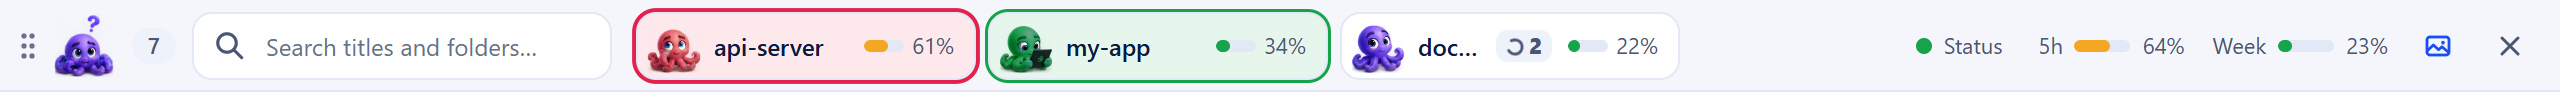
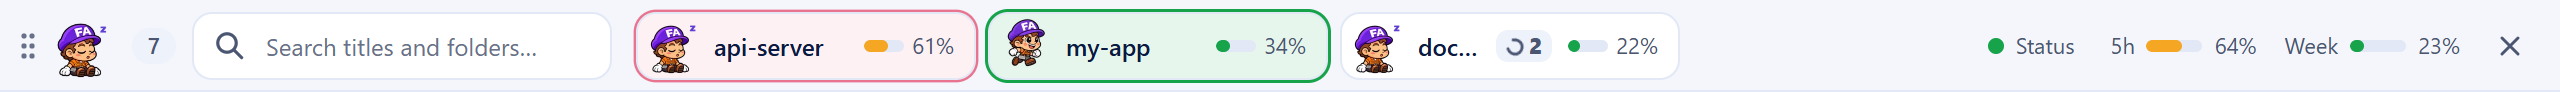
Field Agents: the big-headed chibi hero at 56 px, running or asleep
The card mascot is now the big-headed chibi FA hero at 56 px (cards 74 px
high): it runs while its session works and sleeps in every other state
(eyes closed, a slow breath, a "z" rising); closed cards keep it greyed.
The header follows the same rule; the 28 px top tab shows the whole figure.

Strips ship in 56 and 112 px frames, cut by tools/hero-export.py with one
Lanczos pass from new 512 px sources (one Codex sheet per strip through
sprite-gen; how in trials.md). The page picks the smaller strip wherever it
covers the element's device pixels. New unit tests for the mascot; README
pictures retaken; two unused old screenshots removed.

diff --git a/agent-panel.html b/agent-panel.html
@@ -14,11 +14,12 @@
      but its dot, tint and hero keep its own state: only the badge's arrow turns for that work (2026-11-20,
      the maintainer: a green arc on a session that is itself idle "is misleading"). The folder path shows only
      in the title's tooltip.
-     Mascot (2026-11-21, replacing the 2026-11-09 octopus): the FA hero (cut by tools/hero-export.py into
-     mascot/ and inlined by agent-panel.pyw as window.MASCOT). It is the header's logo and sits on every
-     card: running while the session works, sitting at rest (breathing, a blink now and then) in every
-     other state, greyed on a closed card; the state itself stays with the dot, tint and ring. The header
-     runs when the most pressing state in the list is working, otherwise sits. Without the strips the old logo stays. The bars' 50-80 % band is gold to match the status line,
+     Mascot (2026-11-22, the big-headed chibi FA hero, replacing the 2026-11-21 full-body hero): cut by
+     tools/hero-export.py into mascot/ (56 and 112 px frames) and inlined by agent-panel.pyw as
+     window.MASCOT. It is the header's logo and stands 56 px on every card: running while the session
+     works, asleep (a slow breath, a "z" rising) in every other state, greyed on a closed card; the state
+     itself stays with the dot, tint and ring. The header runs when the most pressing state in the list
+     is working, otherwise sleeps. Without the strips the old logo stays. The bars' 50-80 % band is gold to match the status line,
      an exception to Spark's "gold for rewards only". Written-down exceptions to design.md "One row,
      one shape": the header's logo (36, the hero), count pill (18, pill radius) and hide and screenshot-strip buttons (26) differ, the
      pill qualifying the title and the button standing apart at the edge. Headings and boxes share the
@@ -68,10 +69,10 @@ body.dragging, body.dragging * { cursor: grabbing !important; }
 .mascot { flex: none; background-repeat: no-repeat; background-position: 0 0; }
 .mascot[hidden] { display: none; }
 .logo.mascot { width: 36px; height: 36px; }
-.av { width: 38px; height: 38px; align-self: center; }
-/* a closed card's hero, sitting, in light grey */
+.av { width: 56px; height: 56px; align-self: center; }
+/* a closed card's hero, asleep, in light grey */
 .av.gone { filter: grayscale(1); opacity: .5; }
-.body { flex: 1; min-width: 0; display: flex; flex-direction: column; gap: 2px; }
+.body { flex: 1; min-width: 0; display: flex; flex-direction: column; justify-content: center; gap: 2px; }
 h1 { font-size: 15px; font-weight: 600; }
 #count {
   min-width: 22px; height: 18px; padding: 0 7px; border-radius: var(--r-pill); background: var(--surface2);
@@ -120,7 +121,7 @@ h1 { font-size: 15px; font-weight: 600; }
 #list::-webkit-scrollbar-thumb:hover { background: var(--thumb-hover); }
 
 .card {
-  height: 56px; margin-bottom: 8px; padding: 9px 14px 9px 8px; display: flex; gap: 8px;
+  height: 74px; margin-bottom: 8px; padding: 8px 14px 8px 6px; display: flex; gap: 8px;
   background: var(--panel); border: 1px solid var(--line); border-radius: var(--r-card); box-shadow: var(--card-shadow);
   transition: transform .16s ease-out;
 }
@@ -330,7 +331,7 @@ body.top #list .body { flex-direction: row; align-items: center; gap: 8px; }
 body.top #list .t { flex: 1; min-width: 0; }
 body.top #list .name { font-size: 12px; }
 body.top #list .age, body.top #list .arrow, body.top #list .cx, body.top #list .flags { display: none; }
-/* the tab's tint and the hero (running, sitting, grey when closed) show the state; the dot stands in only without a hero */
+/* the tab's tint and the hero (running, asleep, grey when closed) show the state; the dot stands in only without a hero */
 body.top #list .av:not([hidden]) + .body .dot { display: none; }
 body.top #list .meta { flex: none; padding-left: 0; gap: 4px; }
 body.top #list .meta .bar { width: 20px; }
@@ -430,24 +431,32 @@ const onTop = () => document.body.classList.contains("top");
 // ----- the mascot (mindmap mascot.md: frame 0 the rest, frame 0 only under reduced motion) -----
 const sprites = new Map();   // element -> {key, n, seq, i, at}
 // strip, its frame count (fixed by tools/hero-export.py), and the play order as [frame, ms] steps:
-// the run was drawn at 11 fps; the sitting hero breathes slowly (rest, half, full, half breath) and
-// blinks once every second breath
+// the run was drawn at 11 fps; asleep, the hero breathes slowly (rest, half, full, half breath, the "z"
+// rising one step a frame)
 const RUN = ["hero-run", 8, [0, 1, 2, 3, 4, 5, 6, 7].map(f => [f, 90])];
-const SIT = ["hero-sit", 4, [[0, 1400], [1, 250], [2, 1100], [1, 250], [0, 1400], [1, 250], [2, 1100], [1, 250],
-                             [0, 700], [3, 160], [0, 500]]];
-const heroOf = st => st === "busy" ? RUN : SIT;
+const SLEEP = ["hero-sleep", 4, [[0, 900], [1, 700], [2, 900], [3, 700]]];
+const heroOf = st => st === "busy" ? RUN : SLEEP;
+// each strip comes in 56 px frames and in 112 px ("@2x"): the smaller one when it still covers the
+// element's device pixels (a 56 px card at 1x, the 36 px header and 28 px tab at 1x), else the larger
+const stripOf = (el, key) => {
+  const need = (el.clientWidth || 56) * (window.devicePixelRatio || 1);
+  return need <= 56 && MASCOT[key] ? MASCOT[key] : MASCOT[key + "@2x"] || MASCOT[key];
+};
 const frameAt = (el, n, f) => { el.style.backgroundPosition = f * 100 / (n - 1) + "% 0"; };
 function sprite(el, [key, n, seq]) {
-  const src = MASCOT[key];
-  el.hidden = !src;
-  if (!src) return false;
-  const s = sprites.get(el);
-  if (s && s.key === key) return true;
+  el.hidden = !MASCOT[key] && !MASCOT[key + "@2x"];
+  if (el.hidden) return false;
+  const src = stripOf(el, key), s = sprites.get(el);
+  if (s && s.key === key) {
+    // the dock or the screen's scale changed: the same frame from the other size
+    if (s.src !== src) { s.src = src; el.style.backgroundImage = `url(${src})`; }
+    return true;
+  }
   el.style.backgroundImage = `url(${src})`;
   el.style.backgroundSize = n * 100 + "% 100%";
   frameAt(el, n, 0);
   // each card starts at its own moment, so the heroes do not move in step
-  sprites.set(el, {key, n, seq, i: 0, at: performance.now() + Math.random() * 1200});
+  sprites.set(el, {key, src, n, seq, i: 0, at: performance.now() + Math.random() * 1200});
   return true;
 }
 function tick(now) {
@@ -485,7 +494,7 @@ function syncRegion() {
   api().region(rs);
 }
 requestAnimationFrame(tick);
-// the header's hero runs when the most pressing state in the list is working, otherwise sits (full colour)
+// the header's hero runs when the most pressing state in the list is working, otherwise sleeps (full colour)
 function headerMascot() {
   const st = state.sessions.map(stateOf);
   const top = st.includes("ask") ? "ask" : st.includes("busy") ? "busy" : "idle";

diff --git a/tools/hero-export.py b/tools/hero-export.py
@@ -1,17 +1,21 @@
-"""Builds the Agent Panel's hero strips from the 512 px source frames.
+"""Builds the Field Agents mascot strips (the big-headed chibi FA hero) from the high-resolution source frames.
 
 Usage: python -I tools/hero-export.py
 
-Source: tools/mascot-source/hero/, transparent 512 px frames on one shared cell (feet on row 463):
-run-0..7.png, the running cycle (drawn at 11 fps), and sit-0..3.png, the sitting idle (rest, half
-breath, full breath, blink), both at the same scale, so the head is the same size in either.
-Every frame is cut with one square box, the union of all twelve drawings, padded and standing on
-their shared baseline: the hero is taller than wide, so the box's height decides the scale and the
-figure is never squashed; switching between running and sitting keeps the size and place.
-Frames are scaled to OUT_PX (shown at 38 px on a card, 28 px in the top strip's tabs, 36 px in the
-header; 96 px keeps them sharp up to 2.5x screens).
-Output: mascot/hero-run.webp (8 frames) and mascot/hero-sit.webp (4 frames), one horizontal strip each.
-The panel greys the sitting hero of a closed card itself (CSS), so there is no grey strip.
+Source: tools/mascot-source/hero/, transparent 512 px frames as cut by sprite-gen from one Codex sheet per
+strip (how they were made: trials.md, 2026-11-22): run-0..7.png, the running cycle facing right (both
+boots off the ground in frames 3 and 7), feet on row 463; sleep-0..3.png, asleep sitting (rest, half,
+full and half breath, a "z" rising), feet on row 463, drawn larger than the run.
+The sleeping frames are scaled so the cap covers as much area as in the run (measured on the violet), then every
+frame of both strips is cut with one square box, the union of all twelve drawings plus PAD, standing on
+the shared baseline and centred on the figure, so switching between running and sleeping keeps the
+head's size and the feet's place. Each frame goes straight from its source to the output size with one
+Lanczos pass (measured sharper than going through an intermediate size).
+Output, one horizontal strip per animation and size, frames side by side:
+  mascot/hero-run.webp, hero-sleep.webp        56 px frames (the card, 1x)
+  mascot/hero-run@2x.webp, hero-sleep@2x.webp  112 px frames (the card at 2x; the header, 36 px, and
+                                               the top strip's 28 px tabs scale these down)
+The panel greys the sleeping hero of a closed card itself (CSS), so there is no grey strip.
 """
 import os
 import numpy as np
@@ -20,27 +24,59 @@ from PIL import Image
 HERE = os.path.dirname(os.path.abspath(__file__))
 SRC = os.path.join(HERE, "mascot-source", "hero")
 OUT = os.path.join(os.path.dirname(HERE), "mascot")
-OUT_PX = 96
-PAD = 6  # source px of air round the union box
-STRIPS = {"hero-run": ["run-%d.png" % i for i in range(8)], "hero-sit": ["sit-%d.png" % i for i in range(4)]}
+SIZES = {"": 56, "@2x": 112}
+PAD = 6         # source px of air round the union box
+GROUND = 463    # feet row in every source frame
+Z_RGB = (92, 59, 205)  # the flat violet of the sleeping "z"
+STRIPS = {"hero-run": ["run-%d.png" % i for i in range(8)], "hero-sleep": ["sleep-%d.png" % i for i in range(4)]}
 
-frames = {name: [Image.open(os.path.join(SRC, f)).convert("RGBA") for f in files] for name, files in STRIPS.items()}
-union = np.zeros((512, 512), bool)
-for strip in frames.values():
-    for f in strip:
-        union |= np.array(f)[:, :, 3] > 8
-ys, xs = np.where(union.any(1))[0], np.where(union.any(0))[0]
-bottom = ys[-1] + 1 + PAD
-side = max(bottom - (ys[0] - PAD), xs[-1] - xs[0] + 1 + 2 * PAD)
-left = (xs[0] + xs[-1] + 1) // 2 - side // 2
-box = (left, bottom - side, left + side, bottom)
-print("box %s, %d px square" % (box, side))
 
+def load(name):
+    return np.array(Image.open(os.path.join(SRC, name)).convert("RGBA"))
+
+
+def cap_size(a):
+    """The cap's size as the square root of its violet area: the run shows the cap from the side and
+    the sleeping hero more from the front, so widths differ while the head should look as big. The "z"
+    beside a sleeping cap is one flat colour (Z_RGB) and is left out."""
+    r, g, b, al = (a[..., i].astype(int) for i in range(4))
+    cap = (al > 128) & (b > r + 40) & (b > g + 90)
+    cap &= ~((r == Z_RGB[0]) & (g == Z_RGB[1]) & (b == Z_RGB[2]))
+    return float(np.sqrt(cap.sum()))
+
+
+frames = {k: [load(f) for f in v] for k, v in STRIPS.items()}
+run, sleep = frames["hero-run"], frames["hero-sleep"]
+# the sleeping figure in run pixels: scale k, feet on the same row, centred where the run is centred
+k = float(np.median([cap_size(a) for a in run])) / cap_size(sleep[0])
+ink = lambda a: a[..., 3] > 8
+ru = np.logical_or.reduce([ink(a) for a in run])
+su = np.logical_or.reduce([ink(a) for a in sleep])
+rys, rxs = np.where(ru.any(1))[0], np.where(ru.any(0))[0]
+sys_, sxs = np.where(su.any(1))[0], np.where(su.any(0))[0]
+r_cx = (rxs[0] + rxs[-1] + 1) / 2
+s_cx = (sxs[0] + sxs[-1] + 1) / 2
+place = {"hero-run": (1.0, 0.0, 0.0), "hero-sleep": (k, r_cx - s_cx * k, GROUND - GROUND * k)}  # scale, dx, dy
+top = min(rys[0], sys_[0] * k + place["hero-sleep"][2]) - PAD
+bottom = GROUND + PAD
+left = min(rxs[0], sxs[0] * k + place["hero-sleep"][1]) - PAD
+right = max(rxs[-1] + 1, (sxs[-1] + 1) * k + place["hero-sleep"][1]) + PAD
+side = max(bottom - top, right - left)
+cx = (left + right) / 2
+box = (cx - side / 2, bottom - side, cx + side / 2, bottom)
+print("scale of the sleeping frames %.4f; box %s, %.1f px square" % (k, tuple(round(v, 1) for v in box), side))
+
+M = 600  # transparent margin, so a box reaching past the source frame still resamples cleanly
 os.makedirs(OUT, exist_ok=True)
 for name, strip in frames.items():
-    out = Image.new("RGBA", (OUT_PX * len(strip), OUT_PX))
-    for i, f in enumerate(strip):
-        out.paste(f.crop(box).resize((OUT_PX, OUT_PX), Image.LANCZOS), (i * OUT_PX, 0))
-    path = os.path.join(OUT, name + ".webp")
-    out.save(path, "WEBP", quality=88, method=6)
-    print("wrote %s (%d frames, %d bytes)" % (name, len(strip), os.path.getsize(path)))
+    s, dx, dy = place[name]
+    own = tuple((v - d) / s + M for v, d in zip(box, (dx, dy, dx, dy)))  # the box in this frame's pixels
+    for suffix, px in SIZES.items():
+        out = Image.new("RGBA", (px * len(strip), px))
+        for i, a in enumerate(strip):
+            big = Image.new("RGBA", (a.shape[1] + 2 * M, a.shape[0] + 2 * M))
+            big.paste(Image.fromarray(a), (M, M))
+            out.paste(big.resize((px, px), Image.LANCZOS, box=own), (i * px, 0))
+        path = os.path.join(OUT, name + suffix + ".webp")
+        out.save(path, "WEBP", quality=90, method=6)
+        print("wrote %s (%d frames of %d px, %d bytes)" % (os.path.basename(path), len(strip), px, os.path.getsize(path)))

diff --git a/tools/test-agent-panel-state.py b/tools/test-agent-panel-state.py
@@ -183,6 +183,59 @@ class Page(unittest.TestCase):
         self.assertEqual(self.r["order"], ["asking-with-child", "working", "old-delegating", "new-idle", "old-idle", "closed"])
 
 
+class Mascot(unittest.TestCase):
+    """The chibi hero: runs only while its session works, sleeps in every other state; each element gets the
+    smallest shipped strip that still covers its device pixels; the page's frame counts match the strips."""
+
+    @classmethod
+    def setUpClass(cls):
+        with open(os.path.join(ROOT, "agent-panel.html"), encoding="utf-8") as f:
+            html = f.read()
+        code = html[html.index("const RUN = "):html.index("const frameAt = ")]
+        test = r"""
+const MASCOT = {"hero-run": "r1", "hero-run@2x": "r2", "hero-sleep": "s1", "hero-sleep@2x": "s2"};
+const window = {devicePixelRatio: 1};
+const pick = (w, dpr, key) => { window.devicePixelRatio = dpr; return stripOf({clientWidth: w}, key); };
+console.log(JSON.stringify({
+  heroes: ["busy", "ask", "idle", ""].map(st => heroOf(st)[0]),
+  frames: {run: RUN[1], sleep: SLEEP[1]},
+  sleepMs: SLEEP[2].map(s => s[1]), runMs: RUN[2].map(s => s[1]),
+  picks: [pick(56, 1, "hero-run"), pick(56, 2, "hero-run"), pick(36, 1, "hero-sleep"), pick(36, 2, "hero-sleep"),
+          pick(28, 1, "hero-run"), pick(28, 2, "hero-run"), pick(28, 1.5, "hero-sleep"), pick(56, 1.25, "hero-sleep")],
+}));
+"""
+        out = subprocess.run(["node", "-e", code + test], capture_output=True, encoding="utf-8", check=True)
+        cls.r = json.loads(out.stdout)
+
+    def test_runs_only_while_working(self):
+        self.assertEqual(self.r["heroes"], ["hero-run", "hero-sleep", "hero-sleep", "hero-sleep"])
+
+    def test_timing(self):
+        self.assertTrue(all(ms == 90 for ms in self.r["runMs"]))
+        self.assertTrue(all(600 <= ms <= 900 for ms in self.r["sleepMs"]))
+
+    def test_strip_size_for_the_screen(self):
+        # card 56 px at 1x: the 56 px frames; at 2x or 1.25x the 112 px ones; header and tab at 1x the 56 px
+        self.assertEqual(self.r["picks"], ["r1", "r2", "s1", "s2", "r1", "r1", "s1", "s2"])
+
+    def test_shipped_strips_match_the_page(self):
+        from PIL import Image
+        for name, n in (("hero-run", self.r["frames"]["run"]), ("hero-sleep", self.r["frames"]["sleep"])):
+            for suffix, px in (("", 56), ("@2x", 112)):
+                with Image.open(os.path.join(ROOT, "mascot", name + suffix + ".webp")) as im:
+                    self.assertEqual(im.size, (px * n, px), name + suffix)
+
+    def test_panel_inlines_all_four(self):
+        with open(os.path.join(ROOT, "agent-panel.pyw"), encoding="utf-8") as f:
+            src = f.read()
+        ns = pyw_functions("mascot_js")
+        ns.update(MASCOT=os.path.join(ROOT, "mascot"), base64=__import__("base64"))
+        keys = ("hero-run", "hero-run@2x", "hero-sleep", "hero-sleep@2x")
+        self.assertIn("mascot_js((%s))" % ", ".join('"%s"' % k for k in keys), src)
+        js = ns["mascot_js"](keys)
+        self.assertEqual(sorted(json.loads(js[len("window.MASCOT = "):-1])), sorted(keys))
+
+
 class FolderForm(unittest.TestCase):
     """One form of a session's folder for the cards, the alert and the strip: Windows separators, no trailing one."""
 

diff --git a/memory.md b/memory.md
@@ -14,8 +14,8 @@ What is true now, nothing else. How it got here (test runs, measurements, fixes,
 - Every push needs the maintainer's approval. Before one, scan what goes out for keys, and run `git log main -p --format='%an %ae %cn %ce%n%B' | grep -icEf .git/info/private-names.txt`, which must print 0.
 - `.git/info/private-names.txt` holds the private names (client projects, private paths and addresses, one extended regex per line); it lives in `.git/info/` because a tracked file would publish them. A hit is removed from history with `git filter-repo --refs main --replace-text`, never only by a new commit.
 - `.gitignore`: `.env`, `__pycache__/`, `handoff.md`. `archive/` is excluded locally in `.git/info/exclude`.
-- The claude-plus-fa card on firatada.com (firatada.com commit e1c3850, with the UI Terminology page) is live since 2026-11-21 (Cloudflare version be65aad8).
-- `docs/img/*.png` are the README's pictures (`docs/agent-panel.png` is an older one, not linked), taken from the real pages fed made-up sessions (never real session names).
+- The claude-plus-fa card on firatada.com is live since 2026-11-21 (Cloudflare version be65aad8).
+- `docs/img/*.png` are the README's pictures, taken at 2x from the real pages fed made-up sessions (never real session names).
 
 ## Install, uninstall, run
 - Install or reinstall: double-click `install.cmd` (or `python install.py`); safe to rerun. Remove: double-click `uninstall.cmd` (or `python uninstall.py`). Never run uninstall on the maintainer's own profile as a test.
@@ -100,7 +100,7 @@ What is true now, nothing else. How it got here (test runs, measurements, fixes,
 - Reduced motion: arc still, timer counting, asking card a still red tint and ring, mascots on frame 0, no glides.
 - Timer: `ticking()` each second patches the age text, the dot's tooltip and `aria-label` ("Working, 0:42") and the card's `aria-label` (not while the card has the keyboard); the ticking text carries no `data-k`.
 - Turn start (`turn` in the state, epoch ms, `turn_start()`): `statusUpdatedAt` from the session file; a question inside the turn keeps the start; a new stamp on a session seen working means a new turn; without a stamp, the first read that saw it working.
-- Card rows: title (age on the title row); the title's tooltip is the full folder path (`where_of()`), with the full title above it when cut; then the `ctx` bar + percent (left out when unknown) and on the right the flags (`hidden` / `headless` / `folder deleted` / `on GLM` / `on Codex`) and age joined by ` · `; flags end in `…` when they do not fit, with a tooltip. Cards are 56 px high.
+- Card rows: title (age on the title row); the title's tooltip is the full folder path (`where_of()`), with the full title above it when cut; then the `ctx` bar + percent (left out when unknown) and on the right the flags (`hidden` / `headless` / `folder deleted` / `on GLM` / `on Codex`) and age joined by ` · `; flags end in `…` when they do not fit, with a tooltip. Cards are 74 px high (a 56 px hero).
 - `where_of()`: a WSL-distro session gets `\\wsl.localhost\<distro>` in front, `//` paths become backslashes, a trailing separator is dropped (a drive root keeps its own); the one form for card tooltips, the alert and the strip.
 - Cards are kept and patched by id, never redrawn wholesale (a redrawn card drops hover and tooltip).
 - Tooltips (`.tip`): navy at 88 %, 11 px, 400 ms after real pointer movement, gone after 3 s, on leave, click or scroll; never on keyboard focus; every button has one (no `title`).
@@ -176,13 +176,13 @@ What is true now, nothing else. How it got here (test runs, measurements, fixes,
 - Computed in `Panel.background()` on every live pass and scan from the Toolhelp snapshot `procs()`.
 - Child runs (`child_runs()`): processes that are Claude Code by full path (`~/.local/bin/claude.exe`, `claude.exe.old.*`, files under `~/.local/share/claude/versions/`; `QueryFullProcessImageNameW`) whose parent chain reaches an open session's pid, the nearest winning; each parent no younger than its child (`born()`); a process holding the same session id is not a run; a Claude Code process straight under another without a session of its own (`claude mcp serve`) is skipped. Folder from its session file; start from its own `claude.exe` creation time (`GetProcessTimes`).
 - Subagents (`subagents()`): `<transcript folder>/<session id>/subagents[/<subfolder>]/agent-<id>.meta.json` without `finished` or `stoppedByUser`, written since the session's process started; walked with `os.scandir`, a meta re-read only when its mtime changes (`Panel.metas`); start from the agent's `.jsonl` creation time.
-- Work without a start of its own takes the first read that saw it (`Panel.bg_seen`, forgotten once nothing runs). The header's hero uses `stateOf()` too.
+- Work without a start of its own takes the first read that saw it (`Panel.bg_seen`, forgotten once nothing runs).
 
 ## Mascot
-- The FA hero on the panel: header 36 px (32 on top), every card 38 px on the left (28 px in a top tab). Working: running; open, asking, closed and set aside: sitting; a closed card's hero greyed by CSS (`.av.gone`: `grayscale(1)`, opacity 0.5), every other full colour. The header runs when the most pressing state in the list (ask > busy > idle) is working, else sits. Dot, tint and ring carry the state; a top tab still hides its dot while a hero shows.
-- Strips (96 px square frames, WebP, 42 KB in all): `hero-run` 8 frames, `hero-sit` 4 (rest, half breath, full breath, blink), cut by `python -I tools/hero-export.py` from `tools/mascot-source/hero/` (its header says how).
-- Play order: `RUN` and `SIT` in `agent-panel.html` (`[frame, ms]` steps, each timed from its due time); reduced motion frame 0; each card starts at a random moment. Rules: `mindmap/mascot.md`.
-- `agent-panel.pyw` inlines only `hero-run` and `hero-sit` as `window.MASCOT` data URLs (`mascot_js(only)`); without them the page keeps its old blue logo and no mascot. Both installers delete the folder with `remove_tree` before copying.
+- The big-headed chibi FA hero: every card 56 px on the left, header 36 px (32 on top), top tab 28 px (the whole figure). Working: runs; open, asking, closed and set aside: asleep; a closed card's hero greyed by CSS (`.av.gone`: `grayscale(1)`, opacity 0.5). The header runs when the most pressing state in the list (ask > busy > idle) is working, else sleeps. Dot, tint and ring carry the state; a top tab hides its dot while a hero shows.
+- Strips (WebP, 81 KB in all): `hero-run` 8 frames (both boots off the ground in 3 and 7), `hero-sleep` 4 (rest, half, full, half breath, a violet "z" rising), each in 56 px frames (`hero-*.webp`) and 112 px (`hero-*@2x.webp`); cut by `python -I tools/hero-export.py` from the 512 px frames in `tools/mascot-source/hero/` (its header says how), one Lanczos pass each; how the frames were made: `trials.md`, 2026-11-22.
+- Play order: `RUN` (90 ms a frame) and `SLEEP` (900, 700, 900, 700 ms) in `agent-panel.html`, each step timed from its due time; each card starts at a random moment. `stripOf()` takes the 56 px strip when the element's width times `devicePixelRatio` is at most 56, else the 112 px one, checked on every patch. Rules: `mindmap/mascot.md`.
+- `agent-panel.pyw` inlines the four strips as `window.MASCOT` data URLs (`mascot_js(only)`); without them the page keeps its old blue logo and no mascot. Both installers delete the folder with `remove_tree` before copying.
 - Still the octopus, until the maintainer decides: tray fallback `tray.png`, desktop `agent-panel.ico`, README `logo.png`, the alert's `asking` strip (56 px), the way-out dialog's `asking-purple`. `python -I tools/mascot-export.py` cuts only these from `tools/mascot-source/purple-octopus.png` (1536 x 1024 sheet; `asking` recoloured red and kept purple; logo 256 px, tray 64 px head crop, ico 16 to 256 px).
 
 ## Screenshots and the paste key
@@ -209,7 +209,7 @@ What is true now, nothing else. How it got here (test runs, measurements, fixes,
 - `copy_on_select.py`: `files()` = every Windows Terminal settings file that exists (Store stable/Preview/Canary under `%LOCALAPPDATA%\Packages\Microsoft.WindowsTerminal*_8wekyb3d8bbwe\LocalState`, unpackaged `%LOCALAPPDATA%\Microsoft\Windows Terminal`, Scoop `apps\windows-terminal*\current\settings`), deduplicated by real path. Edited as text: only the root member's value replaced, or `"copyOnSelect": true,` inserted after the root `{` (BOM, indent, line ending kept; written in place). Once per file, recorded in `copy-on-select.json`; a file already `true` recorded unchanged; backup `settings.json.before-claude-plus` once; an unparsable file skipped, not recorded. `restore()`: only records with `changed`, only while still `true`.
 
 ## Tests
-- Unit tests (all pass, 2026-11-22): `python -I tools/test-quote-reply.py` (54), `python -I tools/test-agent-panel-state.py` (14), `python -I tools/test-paste.py` (15), `python -I tools/test-link-front.py` (15), `python -I tools/test-codex-move.py` (12, the move to Codex), `python -I tools/test-way-out.py` (16, the way-out window's gate and Codex's start), `python -I tools/test-codex-way-back.py` (15, the panel's GLM and Codex steps), `python tools/test-ocr.py` (rendered pictures; `--unit` for the 7 `ocr_rows()` checks).
+- Unit tests (all pass, 2026-11-22): `python -I tools/test-quote-reply.py` (54), `python -I tools/test-agent-panel-state.py` (19, 5 of them the mascot's), `python -I tools/test-paste.py` (15), `python -I tools/test-link-front.py` (15), `python -I tools/test-codex-move.py` (12, the move to Codex), `python -I tools/test-way-out.py` (16, the way-out window's gate and Codex's start), `python -I tools/test-codex-way-back.py` (15, the panel's GLM and Codex steps), `python tools/test-ocr.py` (rendered pictures; `--unit` for the 7 `ocr_rows()` checks).
 - Page checks: the repo's `agent-panel.html` with the mascot strips put in at `/*MASCOT*/`, served from 127.0.0.1 to Playwright with a stub `pywebview`, fed made-up sessions through `app.update()`.
 - Window checks: the repo's `agent-panel.pyw` run by a throwaway driver with its mutex and event names renamed (the live panel keeps running), on a temp profile (`USERPROFILE`/`HOME` on `%TEMP%`), the keeper built without `start()`; windows captured by their own handle (`PrintWindow`, `PW_RENDERFULLCONTENT`).
 - Functions are taken out of the `.pyw` by `ast` (importing it trips the one-instance mutex and raises the running panel).
@@ -248,8 +248,8 @@ What is true now, nothing else. How it got here (test runs, measurements, fixes,
 - Codex's work reaches the Claude transcript only as the record, not as Claude turns, and only when the session comes back (or at a resume by hand; a prompt typed while the Codex window is open carries nothing). The list of files written since the move may include other people's changes.
 - Codex gets only the latest part of a long session (after the last compaction, or less over 100,000 tokens); it can read the rest from the transcript path. A single prompt over the budget is still carried whole. The estimate follows Codex CLI 0.164.0; a later import that keeps more is caught by the ceiling.
 - Each move to Codex of a compacted or over-budget session, and each further move, leaves a copy in `codex-transfer/` (nothing deletes them); a cut that Codex counts over the ceiling leaves its first import as an unused thread.
-- The first-turn watch sees only up to Codex's first answer; a later failure is not reported. The two Codex traps are worked around for Codex CLI 0.164.0 and plugin 1.0.6; the move, the naming and the title were also run on 0.171.0, where its start-up questions were measured (`memory/limit-fallback.md`, Codex's own traps); a later version may ask something new. The move marks the folder's git root trusted in Codex's own config when Codex had no answer for it.
-- Reopened in Claude before the reset (the Codex window closed), the session's way-out window stays shut until the reset; that Claude Code then continues by itself was read from a real transcript (a prompt typed at the limit, then "Usage limit reset · Continuing automatically" with it), not tested on a freshly resumed window.
+- The first-turn watch sees only up to Codex's first answer; a later failure is not reported. Codex's traps are worked around for Codex CLI 0.164.0 to 0.171.0 and plugin 1.0.6 (`memory/limit-fallback.md`, Codex's own traps); a later version may ask something new. The move marks the folder's git root trusted in Codex's own config when Codex had no answer for it.
+- Reopened in Claude before the reset (the Codex window closed), the session's way-out window stays shut until the reset; that Claude Code then continues by itself is not tested on a freshly resumed window (`trials.md`, 2026-11-22).
 - Without Windows Terminal the Codex window's title comes from Codex itself (`tui.terminal_title`), seen only in a Windows Terminal tab that did not pin its title, not in a plain console window.
 - Background badge: no runs inside WSL, nor runs whose parent chain passes a process the panel cannot open (elevated); subagents read right only on versions that write `finished` (2.1.323 does; older versions would count every agent of the process as running); workflow agents' `finished` never seen; an agent resumed with SendMessage may not show.
 - Status dot: up to 3 minutes behind status.claude.com, and says only what Anthropic posts there.

diff --git a/trials.md b/trials.md
@@ -426,3 +426,16 @@ Uninstall (2026-10-07): `uninstall.cmd` / `uninstall.py` removes every hook whos
 - The Codex screenshot (2026-11-21 01:23) is older than the window-of-its-own change (36ddb8b, 18:52 that day), so its title was already fixed; the question was not. The imported thread had recorded the session's start folder while the hook's cwd was a subfolder the session had moved into; Codex asks when they differ. Reproduced on the current command with a stand-in thread (`codex exec` in folder A, resumed from folder B in a pseudo console): asked, with and without `--dangerously-bypass-approvals-and-sandbox`. `-C <folder>` stops it; `-c tui.resume_cwd=current` too.
 - Other start-up screens tried the same way (Codex CLI 0.171.0): *Trust this folder?* in any git repository with no `trust_level`, even with the bypass flag and on `resume`; `-c projects.'<root>'.trust_level=trusted` did not lift it (mixed or lower case, with or without `--no-daemon`), a `config/value/write` through `codex app-server` did (keyPath `projects."<root>".trust_level`, a path with a space, a dot and `ş` included). *Update available* (forced by a newer `latest_version` in `~/.codex/version.json`, restored after): default *Update now (runs npm install -g @openai/codex)*; gone with `-c check_for_update_on_startup=false`. No trust question in a folder outside git; no Claude-setup import screen in a folder with `CLAUDE.md`, `.claude/settings.json` and `.claude/commands/`.
 - Tests: `tools/test-way-out.py` (16). End to end, on a temp profile with a stand-in Claude process and the dialog replaced by a log line: seven hook processes at once (two main thread, five with `agent_id`) gave one dialog, titled with the session's name; one more trigger after Cancel none; an `sdk-cli` session none; another session its own. Codex end to end: `prepare_codex()` against the real app server named a fresh stand-in thread and trusted a new git repository (`G3 ş repo.dir`), then `open_codex()`'s exact command, run in a pseudo console from that repository's subfolder with an update forced, showed none of the three questions and Codex answered the continue prompt in that subfolder. The test entries were taken out of `~/.codex/config.toml` and the stand-in threads archived (`codex archive`).
+
+### 2026-11-22: the big-headed chibi hero at 56 px, running or asleep
+
+- Request (the maintainer): the card mascot becomes the big-headed chibi FA hero (three poses drawn earlier with Codex outside the repo: standing, running, sitting; head with cap about 65 to 70 % of the height, gloves about the size of the boots), shown at 56 px; a working session's hero runs, every other one sleeps instead of sitting (eyes closed, slow breath, a small "z" allowed). It replaces the full-body hero of 2026-11-21. Before it, a preview had compared 48, 56 and 64 px (48 recommended there; the maintainer chose 56).
+- Generation: sprite-gen (aldegad/sprite-gen, Codex provider on the ChatGPT login, `--keep-session`), one sheet per strip. `prepare` with 512 px cells, `--fit-resample lanczos --fit-align-x centroid --fit-align-y bottom --no-fit-ground-frames`, base image the running pose for the run and the sitting pose for the sleep, a character description (the chibi's proportions, cap with FA, gloves, keyboard at the belt) and a style line (vector cartoon sticker art, bold outline, flat colours, not pixel art, nothing drawn but the character); then `gen --provider codex --keep-session` with the prepared prompt, the base image and the layout guide; then `extract`. Requests and prompts in the maintainer's Pictures folder (`claude-plus-mascot/chibi3/requests`, `chibi3/*/prompts`).
+- Run action: "FAST RUNNING CYCLE facing RIGHT, 8 frames ... ANGLE LOCK: the big head, the cap with FA and the tiny torso keep ONE fixed angle and the SAME size and shape in all 8 frames; only the legs and the arms with their big gloves move. HEAD STEADY ... 1 contact, 2 down, 3 push-off, 4 FLIGHT: BOTH boots clearly off the ground, the whole character drawn higher ... 5 to 8 the same with the OTHER leg ...". Try 1 used: the same character in all eight frames (cap and FA, gloves, keyboard, belt), cap width 211 to 215 px; frames 4 and 8 with both boots 38 to 43 px off the ground and the head 13 px higher in Codex's raw sheet.
+- Sleep action: "ASLEEP SITTING ON THE GROUND, 4 frames ... EYES CLOSED IN EVERY FRAME: each eye is a short dark downward-curved line ... POSE LOCK ... only the slow breath changes: 1 rest; 2 breathing in, 3 px higher; 3 full breath, 6 px higher; 4 exactly frame 2. No z letters ...". Try 1 used: eyes closed in all four frames, a small open mouth, gloves and boots on the ground; frame 3 rose 11 px. But Codex redrew every frame: frame 2 differed from frame 1 in 35,336 pixels, hips and boots included, so playing them as drawn would shimmer.
+- Done by hand, and why: (1) sprite-gen's `extract` stood every run frame on row 463 despite `--no-fit-ground-frames`, so the flight frames lost their lift and the head dropped about 28 px there; each frame was moved back up by its feet's height in the raw sheet (0, 0, 4, 39, 1, 0, 6, 43 px). (2) The breath is built from sleep frame 1 alone: rows above the neck (row 340) rise 6 or 12 px, the shirt between neck and belt (row 382) stretches, the rest stays; frames rest, half, full, half. (3) A "z" in the cap's violet (#5c3bcd, Segoe UI Black) rises and grows beside the cap, one step a frame. Script: `claude-plus-mascot/chibi3/scripts/build_sources.py`; it writes the repo's `tools/mascot-source/hero/`.
+- Scale between the strips: the run shows the cap from the side, the sleeping hero more from the front. Cap width without the z gave 0.68. The first export measured the width with the "z" (the same violet) inside it, 0.63, then the widest unbroken violet row, 0.70, which left the sleeping head looking larger than the running one on screen. The cap's violet area, the z's flat colour left out, gives 0.64: used.
+- Sizes: one square box over all twelve drawings (343 px of the 512 cell), each frame straight to 56 and 112 px with one Lanczos pass (the earlier chibi preview measured that sharper than going through 96 px). 28 px tab: the whole figure against a head crop compared at 1x: the whole figure keeps running and sleeping apart by its silhouette; the crop shows mostly cap, and running and asleep differ only by the eyes. The whole figure was kept, with the same strips.
+- Page check (Playwright, stub pywebview, made-up sessions asking, working, open with background work, open, closed, hidden): 1x picks the 56 px strips for cards, header and tabs, 2x the 112 px ones (tabs at 2x take the 56 px); cards 74 px; working runs, every other state sleeps, closed and a closed hidden card greyed; header sleeps with an asking session, runs with working the most pressing, sleeps with an empty list; run 90.1 ms a step over 76 steps, sleep steps 700 and 900 ms; reduced motion: all on frame 0; the right and top docks looked at at 1x and 2x. Unit tests 19 in `test-agent-panel-state.py` (5 new for the mascot); installed; the live panel captured by its own handle showed the chibi.
+- README pictures retaken at 2x from the page with made-up sessions; `docs/agent-panel.png` and `docs/status-line-v2.png` (linked from nowhere) deleted. Work files: `claude-plus-mascot/chibi3/` (run and sleep runs, `run-preview.gif`, `sleep-preview.gif`, scripts).
+- Moved from memory.md the same day: that Claude Code continues by itself once the limit resets was read from a real transcript (a prompt typed at the limit, then "Usage limit reset · Continuing automatically" with it); the firatada.com card is firatada.com commit e1c3850, deployed with the UI Terminology page.

diff --git a/README.md b/README.md
@@ -41,7 +41,7 @@ Add-ons for [Claude Code](https://code.claude.com) on Windows, so a long session
 
 ### Field Agents
 
-<img src="docs/img/agent-panel.png" alt="Field Agents: one session asking, one working, one with background work, one open, three closed, usage bars at the bottom" width="280">
+<img src="docs/img/agent-panel.png" alt="Field Agents: one session asking, one working (its hero runs), one with background work, one open, closed ones greyed (their heroes asleep), usage bars at the bottom" width="280">
 
 Every Claude Code session on your PC in one list on the right edge of the screen, newest first, with a search box: each session is an agent at work in the field, hence the name (it was called Agent Panel before). It takes no screen space: the window you work in covers it.
 
@@ -49,6 +49,7 @@ Every Claude Code session on your PC in one list on the right edge of the screen
 - **Green**: the session is working. Its dot turns and the clock shows how long the current turn has run.
 - **Turning badge**: work the session started in the background (a subagent or a `claude -p` run), with the number of runs. Point at it to see what they are.
 - **Purple**: open and waiting for you. **Grey**: closed.
+- The hero on each card runs while its session works and sleeps the rest of the time.
 - Each card shows how full that session's context is. The bottom shows your 5-hour and weekly usage.
 
 Using it:
